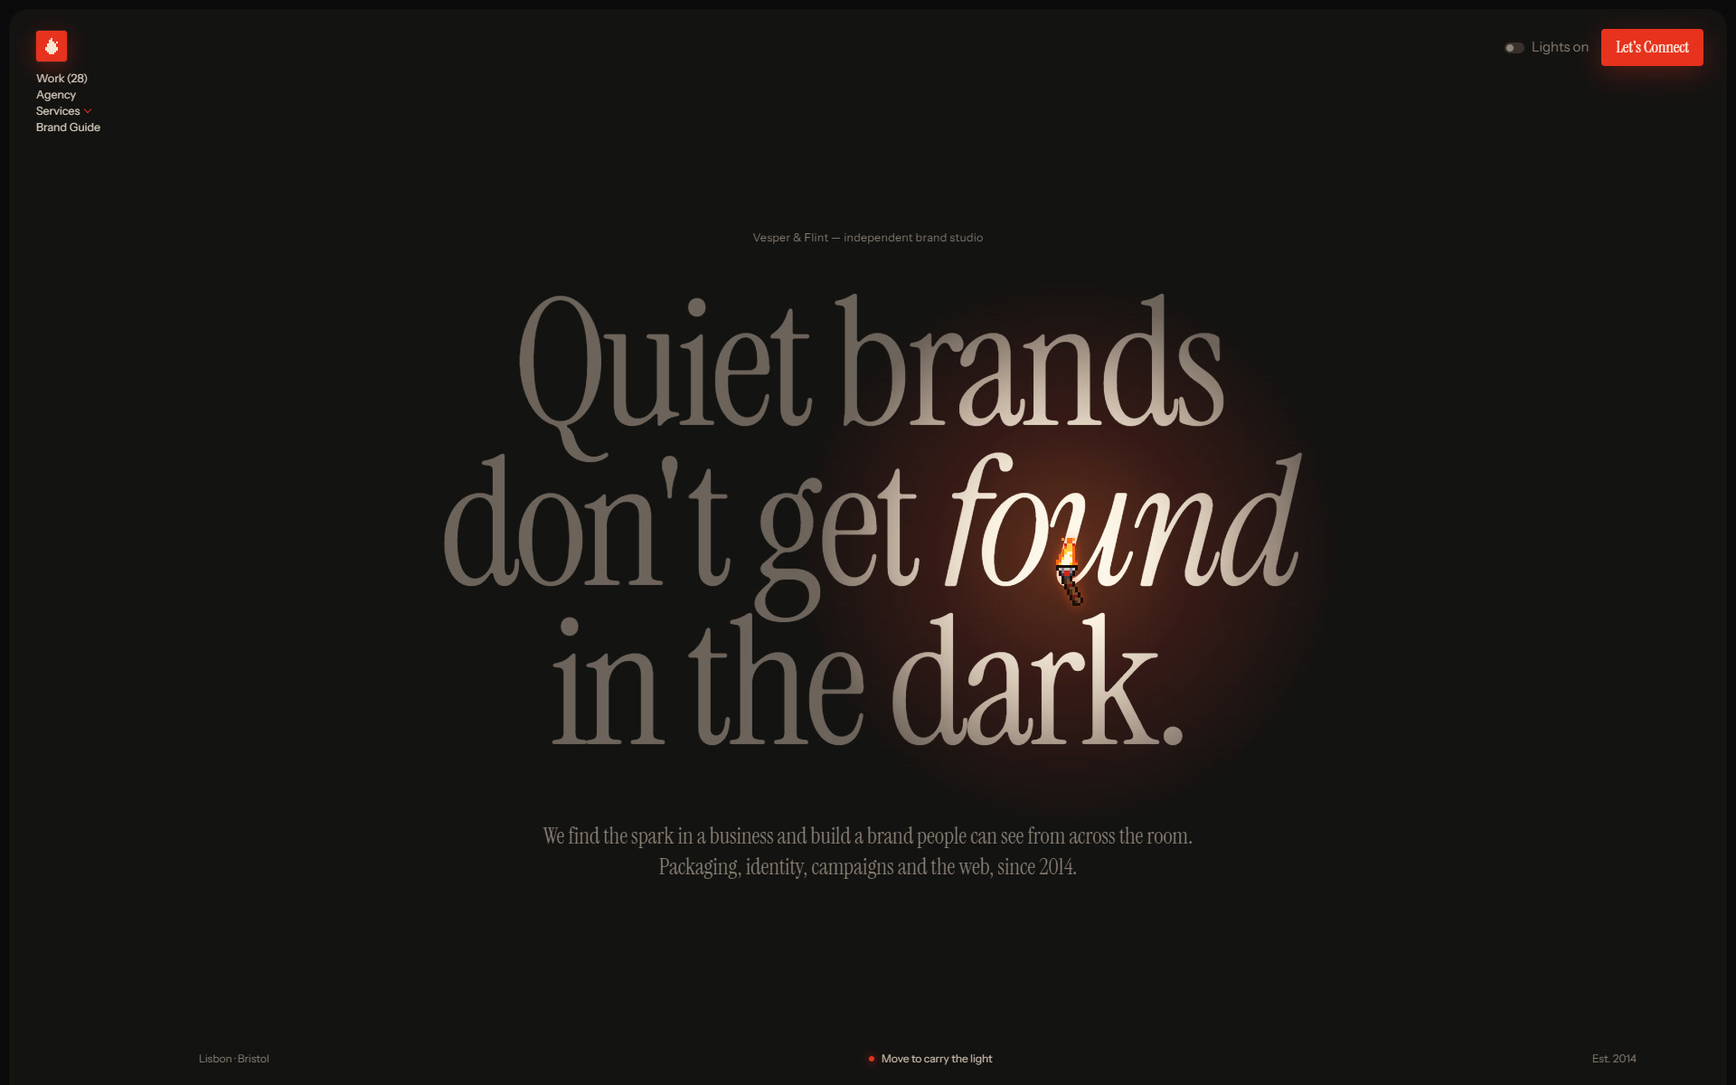
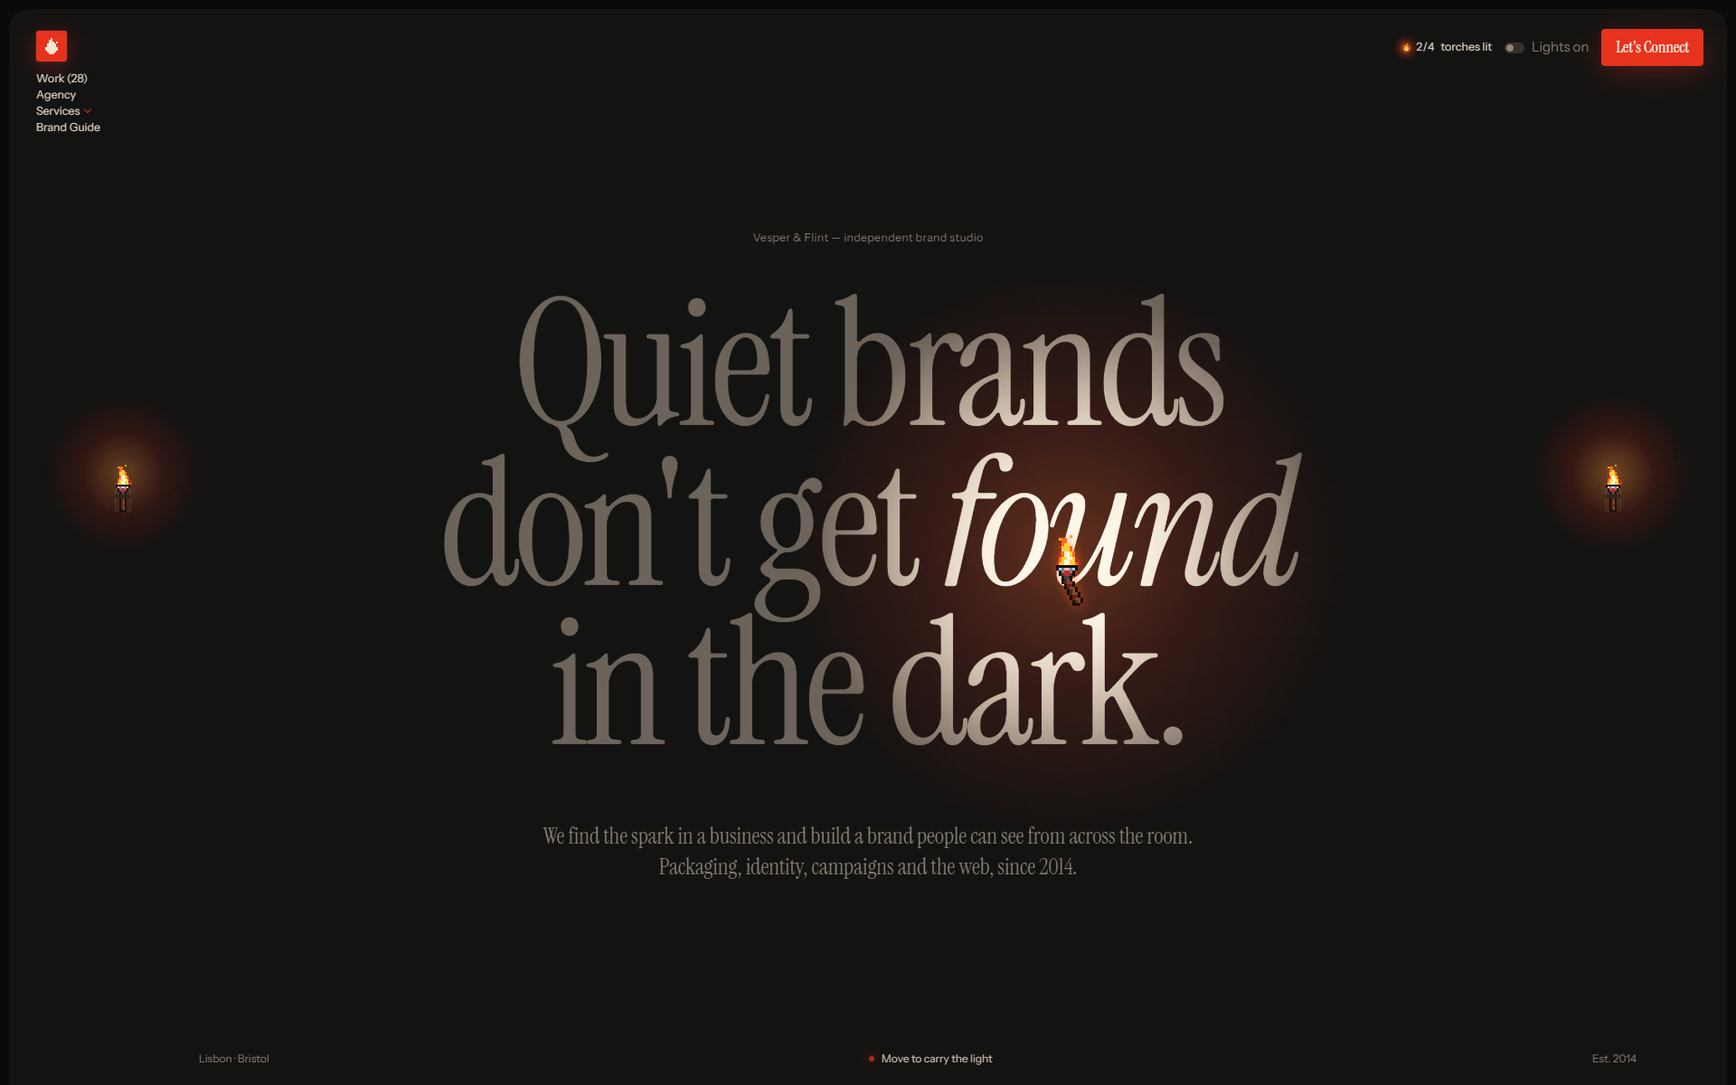
torchlit-agency-template: sconces to light, embers, hold-to-flare, a moth
Wall torches on every page catch when the flame comes near and light their
surroundings; a counter tracks them and lighting all warms the room. Fast
swings throw embers, clicks burst them, press-and-hold fans the flame, and a
pixel moth circles a still torch. Cover and thumb refreshed with lit sconces.

diff --git a/components/torchlit-agency-template/torchlit-agency-template.tsx b/components/torchlit-agency-template/torchlit-agency-template.tsx
@@ -141,6 +141,7 @@ type Run = [x: number, y: number, w: number, fill: string]
 const PAL: Record<string, string> = {
   k: "#1a0d0a", G: "#c9c1c6", g: "#857d86", d: "#433d47", r: "#d1261a", R: "#7c1712",
   b: "#4a2a17", B: "#7d4b26", w: "#fff6dc", y: "#ffcf3f", o: "#ff6a1a", e: "#ff9a2e", c: "#f3e6d3",
+  m: "#3e3127", n: "#8a7660", N: "#cdb898",
 }
 
 // Torch below the flame, rows 11-25 of a 16 x 26 grid. Tilted: handle runs down to the right.
@@ -241,6 +242,10 @@ const UP_RUNS = gridRuns(TORCH_UP, 11)
 const MINI_RUNS = gridRuns(FLAME_MINI)
 const MINI_FRAMES = [FLAME_MINI, FLAME_MINI_2, FLAME_MINI_3].map((g) => gridRuns(g))
 const MINI_MONO = gridRuns(FLAME_MINI, 0, PAL.c)
+// A moth, wings up and wings down, 9 x 6.
+const MOTH_UP = [".n.....n.", "nNn...nNn", "nNNn.nNNn", ".nNNmNNn.", "..nnmnn..", "....m...."]
+const MOTH_DOWN = [".........", ".........", "nnnnmnnnn", "nNNNmNNNn", ".nNnmnNn.", "..n.m.n.."]
+const MOTH_RUNS = [MOTH_UP, MOTH_DOWN].map((g) => gridRuns(g))
 // #endregion
 
 const rects = (runs: Run[]) => runs.map(([x, y, w, fill], i) => <rect key={i} x={x} y={y} width={w} height={1} fill={fill} />)
@@ -324,7 +329,7 @@ function Lit({ className, label, children }: { className?: string; label?: strin
 
 // Unlit until the torch comes near; once it catches it becomes a light source of its own.
 const Emblem = () => (
-  <div className="tl-emb-wrap" data-ignite="160" data-beacon="380">
+  <div className="tl-emb-wrap" data-ignite="160" data-beacon="380" data-sconce="">
     <span className="tl-emb-halo" aria-hidden="true" />
     <Lit className="tl-emb" label="Gold laurel around a torch">
       <LaurelSvg />
@@ -332,6 +337,15 @@ const Emblem = () => (
     </Lit>
     <span className="tl-src" aria-hidden="true" />
   </div>
+)
+
+// A wall torch on an iron bracket: unlit until the torch comes near, then one more light in the room.
+const Sconce = ({ side }: { side: "left" | "right" }) => (
+  <span className={"tl-sconce tl-sconce-" + side} data-ignite="140" data-beacon="230" data-sconce="" aria-hidden="true">
+    <span className="tl-sconce-halo" />
+    <PixelTorch upright scale={2} />
+    <span className="tl-src" />
+  </span>
 )
 
 /** A text block that the torch lights. */
@@ -376,6 +390,20 @@ export default function TorchlitAgencyTemplate({
   const [day, setDay] = React.useState(theme === "light")
   // Set once JS runs; until then text keeps its plain dim colour and photos their full colour.
   const [env, setEnv] = React.useState({ on: false, fine: false })
+  // Torches lit on this page; light them all and the room warms up.
+  const [torches, setTorches] = React.useState({ lit: 0, total: 0 })
+  const [toast, setToast] = React.useState(false)
+  const sparksRef = React.useRef<HTMLDivElement>(null)
+  const mothRef = React.useRef<HTMLDivElement>(null)
+  const burstRef = React.useRef<(n: number) => void>(() => {})
+  const recount = () => {
+    const fr = frameRef.current
+    if (!fr) return
+    const all = [...fr.querySelectorAll<HTMLElement>("[data-sconce]")].filter((el) => el.getClientRects().length > 0)
+    setTorches({ lit: all.filter((el) => el.classList.contains("tl-lit-up")).length, total: all.length })
+  }
+  const recountRef = React.useRef(recount)
+  recountRef.current = recount
   const dayRef = React.useRef(day)
   dayRef.current = day
   const lightsRef = React.useRef<HTMLDivElement>(null)
@@ -400,7 +428,10 @@ export default function TorchlitAgencyTemplate({
       .to(veil, { autoAlpha: 1, duration: 0.32, ease: "power2.in" })
       .add(() => {
         setDay(on)
-        if (!on) gsap.fromTo(L, { boost: 0 }, { boost: 1, duration: 1.4, ease: "power2.out" })
+        if (!on) {
+          gsap.fromTo(L, { boost: 0 }, { boost: 1, duration: 1.4, ease: "power2.out" })
+          setTimeout(() => burstRef.current(22), 380)
+        }
       })
       .to(veil, { autoAlpha: 0, duration: on ? 0.5 : 0.9, ease: "power2.out" }, "+=0.06")
   }
@@ -488,7 +519,7 @@ export default function TorchlitAgencyTemplate({
     const fine = window.matchMedia("(hover: hover) and (pointer: fine)").matches
     const calmMq = window.matchMedia(REDUCE)
     const L = light.current
-    const S = { tx: 0, ty: 0, lx: innerWidth / 2, ly: innerHeight * 0.45, px: innerWidth / 2, py: innerHeight * 0.45, r: 0, tilt: 0, moved: false, inside: false, touching: false, touchMode: !fine, kbd: false }
+    const S = { tx: 0, ty: 0, lx: innerWidth / 2, ly: innerHeight * 0.45, px: innerWidth / 2, py: innerHeight * 0.45, r: 0, tilt: 0, moved: false, inside: false, touching: false, touchMode: !fine, kbd: false, hold: false, sc: 1, still: 0, sx: 0, sy: 0 }
     const visible = new Set<HTMLElement>()
     const watched = new Set<Element>()
     let ignite: HTMLElement[] = []
@@ -508,9 +539,49 @@ export default function TorchlitAgencyTemplate({
     setEnv({ on: true, fine })
     let wasDay: boolean | null = null
 
+    // Embers: a small pool of pixels thrown off the flame when it moves fast, bursts on click.
+    type Spark = { el: HTMLElement; x: number; y: number; vx: number; vy: number; life: number; max: number }
+    const sparks: Spark[] = []
+    const pool = sparksRef.current!
+    for (let i = 0; i < 36; i++) {
+      const el = document.createElement("i")
+      pool.appendChild(el)
+      sparks.push({ el, x: 0, y: 0, vx: 0, vy: 0, life: 0, max: 1 })
+    }
+    let fxNow = 0
+    let fyNow = 0
+    const emit = (n: number, power = 1) => {
+      if (calmMq.matches) return
+      for (const p of sparks) {
+        if (n <= 0) break
+        if (p.life > 0) continue
+        const a = -Math.PI / 2 + (Math.random() - 0.5) * 2.2
+        const v = (0.06 + Math.random() * 0.16) * power
+        p.x = fxNow + (Math.random() - 0.5) * 8
+        p.y = fyNow - 6
+        p.vx = Math.cos(a) * v
+        p.vy = Math.sin(a) * v
+        p.max = p.life = 500 + Math.random() * 700
+        p.el.style.background = Math.random() < 0.3 ? "#fff1c2" : Math.random() < 0.6 ? "#ffb347" : "#ff5a1f"
+        n--
+      }
+    }
+    burstRef.current = (n) => emit(n, 1.7)
+    const M = { on: false, flee: false, x: 0, y: 0, vx: 0, vy: 0 }
+    const moth = mothRef.current!
+    const onDown = (e: PointerEvent) => {
+      if (e.pointerType === "touch" || dayRef.current) return
+      S.hold = true
+      emit(16, 1.8)
+    }
+    const onUp = () => { S.hold = false }
+    frame.addEventListener("pointerdown", onDown)
+    window.addEventListener("pointerup", onUp)
+
     // Fire spreads through the letters from where the torch touched, like oil.
     const catchFire = (el: HTMLElement, x: number, y: number, w: number, h: number) => {
       el.classList.add("tl-lit-up")
+      if (el.hasAttribute("data-sconce")) { recountRef.current(); emit(10, 1.2) }
       el.style.setProperty("--ix", x.toFixed(0) + "px")
       el.style.setProperty("--iy", y.toFixed(0) + "px")
       const full = Math.hypot(w, h) * 1.15
@@ -560,7 +631,7 @@ export default function TorchlitAgencyTemplate({
       const isDay = dayRef.current
       if (isDay !== wasDay) {
         wasDay = isDay
-        if (isDay) { torch.style.opacity = "0"; glow.style.opacity = "0" }
+        if (isDay) { torch.style.opacity = "0"; glow.style.opacity = "0"; moth.style.opacity = "0"; M.on = false }
       }
       // Lights on: nothing to carry.
       if (isDay) return
@@ -580,6 +651,8 @@ export default function TorchlitAgencyTemplate({
       } else {
         tx = S.tx; ty = S.ty; rT = S.inside ? base : 0; follow = 0.42; show = S.inside
       }
+      // Press and hold: the flame flares.
+      if (S.hold && show) rT *= 1.45
       const k = 1 - Math.pow(1 - follow, dt / 16.7)
       const vx = (tx - S.lx) * k
       S.lx += vx
@@ -589,11 +662,65 @@ export default function TorchlitAgencyTemplate({
       S.py += (S.ly - S.py) * kt
       S.r += (rT - S.r) * (1 - Math.pow(0.88, dt / 16.7))
       S.tilt += (Math.max(-16, Math.min(16, vx * 0.9)) - S.tilt) * 0.12
+      S.sc += ((S.hold && show ? 1.18 : 1) - S.sc) * 0.2
+      const speed = Math.hypot(S.lx - S.sx, S.ly - S.sy) / Math.max(dt, 1) * 16.7
+      S.sx = S.lx
+      S.sy = S.ly
       const r = S.r * L.boost
       frame.style.setProperty("--r", r.toFixed(1) + "px")
       const fx = S.lx - fr.left
       const fy = S.ly - fr.top
-      torch.style.transform = "translate3d(" + fx.toFixed(1) + "px," + fy.toFixed(1) + "px,0) rotate(" + S.tilt.toFixed(2) + "deg)"
+      torch.style.transform = "translate3d(" + fx.toFixed(1) + "px," + fy.toFixed(1) + "px,0) rotate(" + S.tilt.toFixed(2) + "deg) scale(" + S.sc.toFixed(3) + ")"
+      fxNow = fx
+      fyNow = fy
+      if (show && speed > 7 && Math.random() < Math.min(0.9, speed / 40)) emit(1 + Math.floor(speed / 25))
+      for (const p of sparks) {
+        if (p.life <= 0) continue
+        p.life -= dt
+        p.vy -= 0.00022 * dt
+        p.vx *= 0.985
+        p.x += p.vx * dt
+        p.y += p.vy * dt
+        const t = Math.max(0, p.life / p.max)
+        p.el.style.opacity = p.life > 0 ? t.toFixed(2) : "0"
+        p.el.style.transform = "translate3d(" + p.x.toFixed(1) + "px," + p.y.toFixed(1) + "px,0) scale(" + (0.5 + t * 0.6).toFixed(2) + ")"
+      }
+      // A moth finds a flame that holds still, and bolts when it swings.
+      S.still = show && speed < 1.2 ? S.still + dt : 0
+      if (!calmMq.matches) {
+        if (!M.on && S.still > 1800) {
+          const fromLeft = Math.random() < 0.5
+          M.on = true
+          M.flee = false
+          M.x = fx + (fromLeft ? -1 : 1) * (vw * 0.55)
+          M.y = fy - 140 + Math.random() * 280
+          M.vx = 0
+          M.vy = 0
+        }
+        if (M.on) {
+          if (speed > 14 || !show) M.flee = true
+          if (M.flee) {
+            const dx = M.x - fx
+            const dy = M.y - fy
+            const d = Math.hypot(dx, dy) || 1
+            M.vx += (dx / d) * 0.03 * dt
+            M.vy += (dy / d) * 0.03 * dt - 0.01 * dt
+            if (d > vw) M.on = false
+          } else {
+            const a = now / 380
+            const ox = fx + Math.cos(a) * 46 + Math.sin(now / 130) * 10
+            const oy = fy - 14 + Math.sin(a * 1.7) * 30 + Math.cos(now / 97) * 8
+            M.vx += (ox - M.x) * 0.0009 * dt + (Math.random() - 0.5) * 0.25
+            M.vy += (oy - M.y) * 0.0009 * dt + (Math.random() - 0.5) * 0.25
+          }
+          M.vx *= 0.9
+          M.vy *= 0.9
+          M.x += M.vx * dt * 0.06
+          M.y += M.vy * dt * 0.06
+        }
+        moth.style.opacity = M.on ? "1" : "0"
+        moth.style.transform = "translate3d(" + M.x.toFixed(1) + "px," + M.y.toFixed(1) + "px,0) scaleX(" + (M.vx < 0 ? -1 : 1) + ")"
+      }
       torch.style.opacity = show ? "1" : "0"
       glow.style.transform = "translate3d(" + fx.toFixed(1) + "px," + fy.toFixed(1) + "px,0) scale(" + Math.max(0.05, r / 210).toFixed(3) + ")"
       glow.style.opacity = show ? "1" : S.touchMode ? "0.35" : "0"
@@ -639,6 +766,9 @@ export default function TorchlitAgencyTemplate({
       window.removeEventListener("touchend", onTouch)
       window.removeEventListener("touchcancel", onTouch)
       frame.removeEventListener("focusin", onFocus)
+      frame.removeEventListener("pointerdown", onDown)
+      window.removeEventListener("pointerup", onUp)
+      pool.replaceChildren()
     }
   }, [])
 
@@ -647,6 +777,7 @@ export default function TorchlitAgencyTemplate({
     const run = afterCommit.current
     afterCommit.current = null
     run?.()
+    recount()
     const scope = frameRef.current!
     const first = firstView.current
     firstView.current = false
@@ -684,6 +815,14 @@ export default function TorchlitAgencyTemplate({
     }, scope)
     return () => ctx.revert()
   }, [view])
+
+  const warm = !day && torches.total > 0 && torches.lit === torches.total
+  React.useEffect(() => {
+    if (!warm) return
+    setToast(true)
+    const t = setTimeout(() => setToast(false), 3600)
+    return () => clearTimeout(t)
+  }, [warm])
 
   React.useEffect(() => {
     if (!menu) return
@@ -739,6 +878,8 @@ export default function TorchlitAgencyTemplate({
 
   const pageHead = (eyebrow: string, title: string, sub?: string) => (
     <header className="tl-ph">
+      <Sconce side="left" />
+      <Sconce side="right" />
       <T className="tl-eyebrow">{eyebrow}</T>
       <h1 className="tl-h1"><T as="span" big>{rich(title)}</T></h1>
       {sub && <T className="tl-lede">{sub}</T>}
@@ -751,6 +892,8 @@ export default function TorchlitAgencyTemplate({
     body = (
       <>
         <section className="tl-hero" data-hero="" style={{ minHeight: "var(--h)" }}>
+          <Sconce side="left" />
+          <Sconce side="right" />
           <T className="tl-eyebrow" >{studio} — independent brand studio</T>
           <h1 className="tl-hero-h">
             {headline.map((l, i) => (
@@ -783,6 +926,7 @@ export default function TorchlitAgencyTemplate({
           </div>
         </section>
         <section className="tl-sec" aria-labelledby="tl-sel-h">
+          <Sconce side="right" />
           <div className="tl-sec-head">
             <h2 id="tl-sel-h" className="tl-h2"><T as="span" big>{rich("Selected *Work*")}</T></h2>
             <button type="button" className="tl-link" onClick={() => go({ page: "work" })}>All {projects.length} projects <span aria-hidden="true">→</span></button>
@@ -808,6 +952,8 @@ export default function TorchlitAgencyTemplate({
       <article className="tl-case">
         <button type="button" className="tl-link tl-back" onClick={() => go({ page: "work" })}><span aria-hidden="true">←</span> All work</button>
         <header className="tl-ph">
+          <Sconce side="left" />
+          <Sconce side="right" />
           <T className="tl-eyebrow">Case {pad(i + 1)} — {p.kind} — {p.year}</T>
           <h1 className="tl-h1"><T as="span" big>{p.title}</T></h1>
           <T className="tl-lede">{p.line}</T>
@@ -973,7 +1119,7 @@ export default function TorchlitAgencyTemplate({
     <div ref={rootRef} className={"tl-root" + (className ? " " + className : "")} style={{ "--h": height } as React.CSSProperties}>
       {fontHref && <link rel="stylesheet" href={fontHref} />}
       <style>{CSS}</style>
-      <div ref={frameRef} className={"tl-frame" + (env.on ? " tl-on" : "") + (env.fine && !day ? " tl-fine" : "") + (day ? " tl-day" : "")}>
+      <div ref={frameRef} className={"tl-frame" + (env.on ? " tl-on" : "") + (env.fine && !day ? " tl-fine" : "") + (day ? " tl-day" : "") + (warm ? " tl-warm" : "")}>
         <div className="tl-bar">
           <nav className="tl-nav" aria-label="Main">
             <button type="button" className="tl-logo" onClick={() => go({ page: "home" })} aria-label={studio + ", home"}>
@@ -1009,6 +1155,11 @@ export default function TorchlitAgencyTemplate({
             </ul>
           </nav>
           <div className="tl-actions">
+            {!day && torches.total > 0 && (
+              <span className={"tl-count" + (warm ? " tl-count-done" : "")} aria-live="polite">
+                <FlameMark /> {torches.lit}/{torches.total}<span className="tl-count-l"> torches lit</span>
+              </span>
+            )}
             <button type="button" className="tl-lamp" aria-pressed={!day} onClick={() => setLights(!day)}>
               <span className="tl-lamp-dot" aria-hidden="true" />
               {day ? "Lights off" : "Lights on"}
@@ -1059,7 +1210,14 @@ export default function TorchlitAgencyTemplate({
         </footer>
 
         <div ref={glowRef} className="tl-glow" aria-hidden="true"><i /></div>
+        <div ref={sparksRef} className="tl-sparks" aria-hidden="true" />
+        <div ref={mothRef} className="tl-moth" aria-hidden="true">
+          <svg viewBox="0 0 9 6" width={27} height={18} shapeRendering="crispEdges">
+            {MOTH_RUNS.map((fr, i) => <g key={i} className="tl-mw" style={{ animationDelay: -i * 0.09 + "s" }}>{rects(fr)}</g>)}
+          </svg>
+        </div>
         <div ref={torchRef} className="tl-torch" aria-hidden="true"><PixelTorch /></div>
+        {toast && <div className="tl-toast" role="status"><FlameMark /> Every torch here is lit. The room is warmer now.</div>}
         <div ref={curtainRef} className="tl-curtain" aria-hidden="true">
           <span className="tl-curtain-in"><PixelTorch upright scale={3} /><span ref={curtainLabel} /></span>
         </div>
@@ -1341,6 +1499,35 @@ const CSS = `
 .tl-curtain-in{display:flex;flex-direction:column;align-items:center;gap:18px;font-family:"Instrument Serif",ui-serif,Georgia,serif;font-style:italic;font-size:clamp(40px,6vw,88px);color:var(--tl-cream);line-height:1}
 .tl-ghost{position:fixed;z-index:85;visibility:hidden;object-fit:cover;max-width:none;pointer-events:none}
 
+.tl-sparks{position:absolute;inset:0;z-index:59;pointer-events:none;overflow:hidden}
+.tl-sparks i{position:absolute;left:-1px;top:-1px;width:3px;height:3px;opacity:0;box-shadow:0 0 6px rgba(255,120,30,.9);will-change:transform,opacity}
+.tl-moth{position:absolute;left:0;top:0;margin:-9px 0 0 -13px;z-index:58;pointer-events:none;opacity:0;transition:opacity .5s;filter:drop-shadow(0 0 4px rgba(255,170,90,.5))}
+.tl-moth svg{display:block}
+.tl-mw{animation:tl-wing .18s steps(1,end) infinite;opacity:0}
+@keyframes tl-wing{0%{opacity:1}50%,100%{opacity:0}}
+.tl-hero,.tl-sec,.tl-ph{position:relative}
+.tl-sconce{position:absolute;z-index:3;width:32px;height:52px;display:block}
+.tl-sconce > svg{position:relative;display:block;filter:brightness(.55) saturate(.6);transition:filter .6s}
+.tl-sconce::before{content:"";position:absolute;left:50%;top:26px;width:18px;height:26px;margin-left:-9px;background:#1d1817;border:1px solid rgba(243,230,211,.06);border-radius:3px;z-index:-1}
+.tl-sconce::after{content:"";position:absolute;left:7px;right:7px;top:33px;height:4px;background:#2d2522;border-radius:2px}
+.tl-sconce:not(.tl-lit-up) .tl-fl{visibility:hidden}
+.tl-sconce.tl-lit-up > svg{filter:none;animation:tl-catch .7s cubic-bezier(.2,.9,.3,1.4)}
+.tl-sconce .tl-src{top:10px}
+.tl-sconce-halo{position:absolute;left:50%;top:10px;width:200px;height:200px;margin:-100px 0 0 -100px;border-radius:50%;background:radial-gradient(circle,rgba(255,150,60,.4) 0,rgba(232,50,31,.16) 32%,rgba(232,50,31,0) 62%);opacity:0;transform:scale(.3);transition:opacity .5s,transform .9s cubic-bezier(.2,.9,.2,1.2);pointer-events:none;mix-blend-mode:screen}
+.tl-sconce.tl-lit-up .tl-sconce-halo{opacity:1;transform:scale(1);animation:tl-flick 2s .9s infinite}
+.tl-sconce-left{left:max(14px,calc(var(--gl) - 84px))}
+.tl-sconce-right{right:clamp(18px,4cqw,64px)}
+.tl-hero > .tl-sconce{top:42%}
+.tl-hero > .tl-sconce-left{left:clamp(18px,6cqw,110px)}
+.tl-hero > .tl-sconce-right{right:clamp(18px,6cqw,110px)}
+.tl-ph > .tl-sconce{top:calc(clamp(150px,18cqw,220px) + 40px)}
+.tl-sec > .tl-sconce{top:clamp(40px,6cqw,90px)}
+.tl-count{display:inline-flex;align-items:center;gap:7px;font-size:12.5px;color:var(--tl-ui);font-variant-numeric:tabular-nums}
+.tl-count-done{color:#ffc95a}
+.tl-warm{--tl-dim:#a19483;--tl-dim-lg:#8a7d70}
+.tl-frame.tl-warm::after{content:"";position:absolute;inset:0;pointer-events:none;z-index:2;background:radial-gradient(120% 60% at 50% 0%,rgba(255,140,60,.07),rgba(255,140,60,0) 70%);animation:tl-ask .9s both}
+.tl-toast{position:fixed;left:50%;bottom:22px;z-index:70;transform:translateX(-50%);display:flex;align-items:center;gap:10px;padding:11px 18px;border-radius:40px;background:#241b17;border:1px solid rgba(255,190,110,.25);color:#ffe2b0;font-size:13px;box-shadow:0 0 40px rgba(255,110,40,.25);white-space:nowrap;animation:tl-ask .7s both cubic-bezier(.2,.8,.2,1)}
+.tl-frame.tl-day .tl-sconce-halo,.tl-frame.tl-day .tl-sparks,.tl-frame.tl-day .tl-moth{display:none}
 .tl-veil{position:fixed;inset:0;z-index:95;visibility:hidden;opacity:0;pointer-events:none}
 .tl-ask{position:fixed;left:50%;bottom:22px;z-index:70;transform:translateX(-50%);display:flex;align-items:center;gap:14px;padding:8px 8px 8px 16px;border-radius:40px;background:#1a1616;color:#efe4d6;font-size:13px;box-shadow:0 14px 40px rgba(20,12,8,.28);white-space:nowrap;animation:tl-ask .8s 1.2s both cubic-bezier(.2,.8,.2,1)}
 .tl-ask-t{display:inline-flex;align-items:center;gap:8px}
@@ -1379,6 +1566,9 @@ const CSS = `
   .tl-bar::before{content:"";position:absolute;left:0;right:0;top:-10px;height:178px;background:linear-gradient(#141212 66%,rgba(20,18,18,0));pointer-events:none}
   .tl-nav{left:18px;top:16px;font-size:12px}
   .tl-actions{right:16px;top:16px;gap:10px}
+  .tl-count-l,.tl-hero > .tl-sconce,.tl-ph > .tl-sconce-left{display:none}
+  .tl-ph > .tl-sconce-right{top:150px}
+  .tl-toast{white-space:normal;width:calc(100% - 32px);justify-content:center}
   .tl-frame .tl-cta{font-size:16px;padding:9px 12px 10px}
   .tl-lamp{font-size:11.5px}
   .tl-hero{padding-top:150px}
@@ -1413,7 +1603,9 @@ const CSS = `
 
 /* ---- reduced motion: the light still follows, nothing flickers or travels ---- */
 @media (prefers-reduced-motion: reduce){
-  .tl-fl,.tl-fm{animation:none}
+  .tl-fl,.tl-fm,.tl-mw{animation:none}
+  .tl-mw:first-child{opacity:1}
+  .tl-sconce.tl-lit-up > svg,.tl-sconce.tl-lit-up .tl-sconce-halo,.tl-frame.tl-warm::after,.tl-toast{animation:none}
   .tl-fm:first-child{opacity:1}
   .tl-flame::before,.tl-emb-wrap.tl-lit-up .tl-emb-halo,.tl-emb-wrap.tl-lit-up .tl-emb-torch svg{animation:none}
   .tl-fl:first-child{opacity:1}

diff --git a/components/torchlit-agency-template/README.md b/components/torchlit-agency-template/README.md
@@ -17,6 +17,13 @@ A complete agency site for a fictional brand studio, **Vesper & Flint**. Turn th
 
 Other pages change behind an ember-edged curtain.
 
+## Play
+
+- **Wall sconces.** Every page has unlit pixel torches on iron brackets. The laurel counts as one. Carry your flame to each one to light it, and the counter next to the switch tracks how many are lit (`2/4`). When all of them are lit, a toast appears and the whole room warms up a shade. Only sconces you can see are counted, so phones get a shorter list.
+- **Embers.** Swinging the torch fast throws off pixel embers, and clicking bursts a handful. Switching the lights off strikes the torch with a shower of sparks.
+- **Press and hold** to fan the flame: it grows and the light reaches further.
+- **A moth.** Hold the torch still for a couple of seconds and a pixel moth flutters in to circle the flame. Swing the torch and it bolts.
+
 ## Props
 
 | Prop | Default | Notes |
